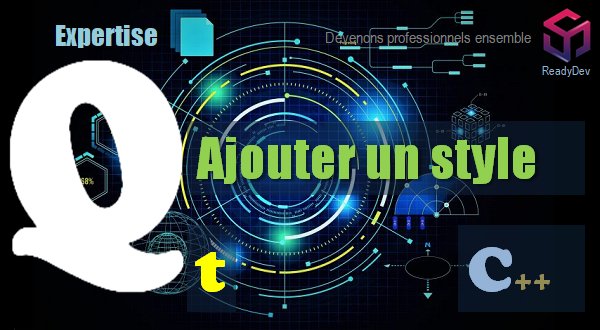
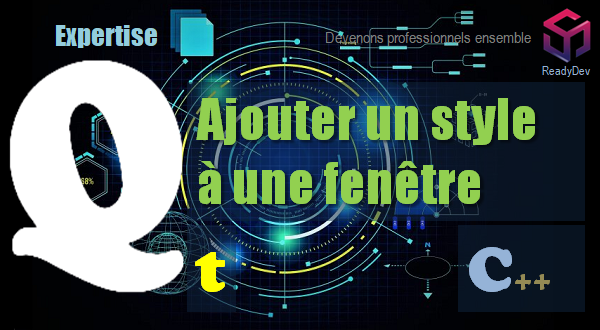
Initial Commit

Changed region(s): [[0.3, 0.2424, 0.99, 0.6667]]

diff --git a/Tutoriels/Cpp/Qt/Window/page/main.php b/Tutoriels/Cpp/Qt/Window/page/main.php
@@ -1,39 +1,5 @@
-<div class="Parallax GParallax1"><div class="Img Binary"><div class="Caption"><a href="#"><div class="Text">Créer une fenêtre personnalisée Qt en C++</div></a></div></div><div class="Body2 Orange">Le but de ce tutoriel est de vous apprendre à créer une fenêtre personnalisée <b>Qt </b>en <b>C++</b>.<br>Version Pro &amp; Industrielle. Produit par <b>Gérard KESSE</b>.<br><br><div class="Content0 GSummary1"><div class="Body0" id="Loader_1529412976174"><div class="Row26">Summary 1</div></div><script>loadSummary1("Loader_1529412976174");</script></div></div></div><br><div class="Content2 GTitle1"><div class="MainBlock2"><div class="Content"><h1 class="Title2 Center" id="Introduction"><a class="Link3" href="#">Introduction</a></h1><div class="Body3"><b>Qt </b>est une API orientée objet et développée en C++. Qt offre des composants d'interface graphique (widgets), d'accès aux données, de connexions réseaux, de gestion des fils d'exécution, d'analyse XML. Elle peut être utiliser pour concevoir l'architecture de son application en utilisant les mécanismes des signaux et slots.Qt prend en charge le système graphique X Window System. Qt intègre des bindings avec plusieurs de langages.<br><br><div class="Img3 GImage"><img src="/Tutoriels/Cpp/img/b_qt_window.png" alt="/Tutoriels/Cpp/img/b_qt_window.png"></div><br></div></div></div></div><br><div class="Content2 GTitle1"><div class="MainBlock2"><div class="Content"><h1 class="Title2 Center" id="Créer une fenêtre personnalisée Qt en C++"><a class="Link3" href="#">Créer une fenêtre personnalisée Qt en C++</a></h1><div class="Body3"><br><div class="Content0 GSummary2"><div class="Body0" id="Loader_1599250744051"><div class="Row26">Summary 2</div></div><script>loadSummary2("Loader_1599250744051");</script></div><br><h2 class="Title7 GTitle2" id="Créer une fenêtre personnalisée Qt en C++-Introduction"><a class="Link9" href="#Créer une fenêtre personnalisée Qt en C++">Introduction</a></h2><br>Dans l'exemple qui suit, nous essayons de créer une fenêtre personnalisée (GWindow) qui affiche un message à l'écran (Bonjour tout le monde).<br><br><h2 class="Title7 GTitle2" id="Créer une fenêtre personnalisée Qt en C++-Programme principal"><a class="Link9" href="#Créer une fenêtre personnalisée Qt en C++">Programme principal</a></h2><br>Pour la définition du programme principal. La fenêtre personnalisée (GWindow) est crée et affichée.<br><br><h3 class="Title8 GTitle3">main.cpp</h3><br><div class="GCode1"><pre class="Code2"><xmp class="AceCode" data-mode="c_cpp">//===============================================
-#include "GWindow.h"
-//===============================================
-int main(int argc, char** argv) {
-    QApplication app(argc, argv);
-    GWindow* lWindow = new GWindow;
-    lWindow-&gt;show();
-    return app.exec();
-}
-//===============================================</xmp></pre></div><br><h2 class="Title7 GTitle2" id="Créer une fenêtre personnalisée Qt en C++-Fénêtre personnalisée"><a class="Link9" href="#Créer une fenêtre personnalisée Qt en C++">Fénêtre personnalisée</a></h2><br>Pour la définition de la fenêtre personnalisée. La fenêtre personnalisée (GWindow) dérive d'un objet (QFrame). Le message (Bonjour tout le monde) est affché dans un label (QLabel). La structure (sGQt) fournit les informations sur la fenêtre (GWindow), notament, son titre (title), et ses dimensions, largeur (width) et hauetur (height). <br><br><h3 class="Title8 GTitle3">GWindow.cpp</h3><br><div class="GCode1"><pre class="Code2"><xmp class="AceCode" data-mode="c_cpp">//===============================================
-GWindow::GWindow(QWidget* parent) : QFrame(parent) {
-    sGQt* lQt = GManager::Instance()-&gt;dataGet()-&gt;qt;
-        
-    QLabel* lLabel = new QLabel;    
-    lLabel-&gt;setText("Bonjour tout le monde\n");
-    
-    QVBoxLayout* lLayout = new QVBoxLayout;    
-    lLayout-&gt;addWidget(lLabel);
-    lLayout-&gt;setAlignment(Qt::AlignCenter);
-    
-    setLayout(lLayout);
-    setWindowTitle(lQt-&gt;title);
-    resize(lQt-&gt;width, lQt-&gt;height);
-}
-//===============================================</xmp></pre></div><br>Pour la définition des données.<br><br><h3 class="Title8 GTitle3">GManager.cpp</h3><br><div class="GCode1"><pre class="Code2"><xmp class="AceCode" data-mode="c_cpp">m_mgr-&gt;qt-&gt;title = "ReadyApp";
-m_mgr-&gt;qt-&gt;width = 640;
-m_mgr-&gt;qt-&gt;height = 480;</xmp></pre></div><br><h2 class="Title7 GTitle2" id="Créer une fenêtre personnalisée Qt en C++-Résultat"><a class="Link9" href="#Créer une fenêtre personnalisée Qt en C++">Résultat</a></h2><br><div class="Img3 GImage"><img src="/Tutoriels/Cpp/img/i_qt_window.png" alt="/Tutoriels/Cpp/img/i_qt_window.png"></div><br></div></div></div></div><br><div class="Content2 GTitle1"><div class="MainBlock2"><div class="Content"><h1 class="Title2 Center" id="Codes sources"><a class="Link3" href="#">Codes sources</a></h1><div class="Body3"><br><i>ReadyDev met à votre disposition l'ensemble des codes sources publiés sur ce site.<br>Publiés sous licence libre (GNU General Public License v3.0).</i><br><br><div class="Content0 GSummary2"><div class="Body0" id="Loader_1601112201236"><div class="Row26">Summary 2</div></div><script>loadSummary2("Loader_1601112201236");</script></div><br><h2 class="Title7 GTitle2" id="Codes sources-main.cpp"><a class="Link9" href="#Codes sources">main.cpp</a></h2><br><div class="GCode1"><pre class="Code2"><xmp class="AceCode" data-mode="c_cpp">//===============================================
-#include "GWindow.h"
-//===============================================
-int main(int argc, char** argv) {
-    QApplication app(argc, argv);
-    GWindow* lWindow = new GWindow;
-    lWindow-&gt;show();
-    return app.exec();
-}
-//===============================================</xmp></pre></div><br><h2 class="Title7 GTitle2" id="Codes sources-GWinow.h"><a class="Link9" href="#Codes sources">GWinow.h</a></h2><br><div class="GCode1"><pre class="Code2"><xmp class="AceCode" data-mode="c_cpp">//===============================================
+<div class="Parallax GParallax1"><div class="Img Binary"><div class="Caption"><a href="#"><div class="Text">Créer une fenêtre personnalisée Qt en C++</div></a></div></div><div class="Body2 Orange">Le but de ce tutoriel est de vous apprendre à créer une fenêtre personnalisée <b>Qt </b>en <b>C++</b>.<br>Version Pro &amp; Industrielle. Produit par <b>Gérard KESSE</b>.<br><br><div class="Content0 GSummary1"><div class="Body0" id="Loader_1529412976174"><div class="Row26">Summary 1</div></div><script>loadSummary1("Loader_1529412976174");</script></div></div></div><br><div class="Content2 GTitle1"><div class="MainBlock2"><div class="Content"><h1 class="Title2 Center" id="Introduction"><a class="Link3" href="#">Introduction</a></h1><div class="Body3"><b>Qt </b>est une API orientée objet et développée en C++. Qt offre des composants d'interface graphique (widgets), d'accès aux données, de connexions réseaux, de gestion des fils d'exécution, d'analyse XML. Elle utilse le mécanisme des signaux et slots.Qt prend en charge le système graphique X Window System et intègre des bindings avec plusieurs langages.<br><br><div class="Img3 GImage"><img src="/Tutoriels/Cpp/img/b_qt_window.png" alt="/Tutoriels/Cpp/img/b_qt_window.png"></div><br></div></div></div></div><br><div class="Content2 GTitle1"><div class="MainBlock2"><div class="Content"><h1 class="Title2 Center" id="Créer une fenêtre personnalisée Qt en C++"><a class="Link3" href="#">Créer une fenêtre personnalisée Qt en C++</a></h1><div class="Body3"><br><div class="Content0 GSummary2"><div class="Body0" id="Loader_1599250744051"><div class="Row26">Summary 2</div></div><script>loadSummary2("Loader_1599250744051");</script></div><br><h2 class="Title7 GTitle2" id="Créer une fenêtre personnalisée Qt en C++-Introduction"><a class="Link9" href="#Créer une fenêtre personnalisée Qt en C++">Introduction</a></h2><br>Dans l'exemple qui suit, nous essayons de créer une fenêtre personnalisée (GWindow).<br><br><h2 class="Title7 GTitle2" id="Créer une fenêtre personnalisée Qt en C++-Programme principal"><a class="Link9" href="#Créer une fenêtre personnalisée Qt en C++">Programme principal</a></h2><br><h3 class="Title8 GTitle3">main.cpp</h3><br><div class="GCode1"><pre class="Code2"><xmp class="AceCode" data-mode="batchfile">GWindow* lWindow = new GWindow;
+lWindow-&gt;show();</xmp></pre></div><br><h2 class="Title7 GTitle2" id="Créer une fenêtre personnalisée Qt en C++-Fichier header"><a class="Link9" href="#Créer une fenêtre personnalisée Qt en C++">Fichier header</a></h2><br><h3 class="Title8 GTitle3">GWindow.h</h3><br><div class="GCode1"><pre class="Code2"><xmp class="AceCode" data-mode="c_cpp">//===============================================
 #ifndef _GWindow_
 #define _GWindow_
 //===============================================
@@ -45,29 +11,18 @@ class GWindow : public QFrame {
 public:
     GWindow(QWidget* parent  = 0);
     ~GWindow();
+
+private:
+    // proprietes
 };
 //===============================================
 #endif
-//===============================================</xmp></pre></div><br><h2 class="Title7 GTitle2" id="Codes sources-GWindow.cpp"><a class="Link9" href="#Codes sources">GWindow.cpp</a></h2><br><div class="GCode1"><pre class="Code2"><xmp class="AceCode" data-mode="c_cpp">//===============================================
-#include "GWindow.h"
-#include "GManager.h"
-//===============================================
+//===============================================</xmp></pre></div><br><h2 class="Title7 GTitle2" id="Créer une fenêtre personnalisée Qt en C++-Constructeur de la fenêtre"><a class="Link9" href="#Créer une fenêtre personnalisée Qt en C++">Constructeur de la fenêtre</a></h2><br><h3 class="Title8 GTitle3">GWindow.cpp</h3><br><div class="GCode1"><pre class="Code2"><xmp class="AceCode" data-mode="c_cpp">//===============================================
 GWindow::GWindow(QWidget* parent) : QFrame(parent) {
-    sGQt* lQt = GManager::Instance()-&gt;dataGet()-&gt;qt;
-        
-    QLabel* lLabel = new QLabel;    
-    lLabel-&gt;setText("Bonjour tout le monde\n");
-    
-    QVBoxLayout* lLayout = new QVBoxLayout;    
-    lLayout-&gt;addWidget(lLabel);
-    lLayout-&gt;setAlignment(Qt::AlignCenter);
-    
-    setLayout(lLayout);
+    // code du constructeur de la fenetre
+    setLayout(m_mainLayout);
     setWindowTitle(lQt-&gt;title);
+    setWindowIcon(QIcon(lTitleBar-&gt;icon_file));
     resize(lQt-&gt;width, lQt-&gt;height);
-}
-//===============================================
-GWindow::~GWindow() {
-    
 }
 //===============================================</xmp></pre></div><br></div></div></div></div><br><div class="Content2 GTitle1"><div class="MainBlock2"><div class="Content"><h1 class="Title2 Center" id="Voir Aussi"><a class="Link3" href="#">Voir Aussi</a></h1><div class="Body3">Dans cette même catégorie, vous pouvez consulter aussi :<br><br><span class="GColor1" style="color:lime;">Interface Homme-Machine Qt</span><br><br><div class="Content0 GList1"><div class="Body0" id="Loader_1601151341115"><div class="Row26">List 1 &gt; Cpp &gt; qt</div></div><script>loadList1("Loader_1601151341115","Cpp","qt");</script></div><br></div></div></div></div><br>

diff --git a/Tutoriels/Cpp/Qt/Project/page/main.php b/Tutoriels/Cpp/Qt/Project/page/main.php
@@ -1,4 +1,4 @@
-<div class="Parallax GParallax1"><div class="Img Binary"><div class="Caption"><a href="#"><div class="Text">Créer un projet Qt en C++</div></a></div></div><div class="Body2 Orange">Le but de ce tutoriel est de vous apprendre à créer un projet <b>Qt </b>en <b>C++</b>.<br>Version Pro &amp; Industrielle. Produit par <b>Gérard KESSE</b>.<br><br><div class="Content0 GSummary1"><div class="Body0" id="Loader_1529412976174"><div class="Row26">Summary 1</div></div><script>loadSummary1("Loader_1529412976174");</script></div></div></div><br><div class="Content2 GTitle1"><div class="MainBlock2"><div class="Content"><h1 class="Title2 Center" id="Introduction"><a class="Link3" href="#">Introduction</a></h1><div class="Body3"><b>Qt </b>est une API orientée objet et développée en C++. Qt offre des composants d'interface graphique (widgets), d'accès aux données, de connexions réseaux, de gestion des fils d'exécution, d'analyse XML. Elle peut être utiliser pour concevoir l'architecture de son application en utilisant les mécanismes des signaux et slots.Qt prend en charge le système graphique X Window System. Qt intègre des bindings avec plusieurs de langages.<br><br><div class="Img3 GImage"><img src="/Tutoriels/Cpp/img/b_qt_project.png" alt="/Tutoriels/Cpp/img/b_qt_project.png"></div><br></div></div></div></div><br><div class="Content2 GTitle1"><div class="MainBlock2"><div class="Content"><h1 class="Title2 Center" id="Créer un projet Qt en C++"><a class="Link3" href="#">Créer un projet Qt en C++</a></h1><div class="Body3"><br><div class="Content0 GSummary2"><div class="Body0" id="Loader_1599250744051"><div class="Row26">Summary 2</div></div><script>loadSummary2("Loader_1599250744051");</script></div><br><h2 class="Title7 GTitle2" id="Créer un projet Qt en C++-Introduction"><a class="Link9" href="#Créer un projet Qt en C++">Introduction</a></h2><br>Dans l'exemple qui suit, nous essayons de créer un projet qui affiche un message à l'écran (Bonjour tout le monde).<br><br><h2 class="Title7 GTitle2" id="Créer un projet Qt en C++-Programme principal"><a class="Link9" href="#Créer un projet Qt en C++">Programme principal</a></h2><br>Pour la définition du programme principal. Le message (Bonjour tout le monde) est affiché dans un label (QLabel). La fenêtre (QWidget) a pour dimension (640 x 480) et pour titre (ReadyApp).<br><br><h3 class="Title8 GTitle3">main.cpp</h3><br><div class="GCode1"><pre class="Code2"><xmp class="AceCode" data-mode="c_cpp">//===============================================
+<div class="Parallax GParallax1"><div class="Img Binary"><div class="Caption"><a href="#"><div class="Text">Créer un projet Qt en C++</div></a></div></div><div class="Body2 Orange">Le but de ce tutoriel est de vous apprendre à créer un projet <b>Qt </b>en <b>C++</b>.<br>Version Pro &amp; Industrielle. Produit par <b>Gérard KESSE</b>.<br><br><div class="Content0 GSummary1"><div class="Body0" id="Loader_1529412976174"><div class="Row26">Summary 1</div></div><script>loadSummary1("Loader_1529412976174");</script></div></div></div><br><div class="Content2 GTitle1"><div class="MainBlock2"><div class="Content"><h1 class="Title2 Center" id="Introduction"><a class="Link3" href="#">Introduction</a></h1><div class="Body3"><b>Qt </b>est une API orientée objet et développée en C++. Qt offre des composants d'interface graphique (widgets), d'accès aux données, de connexions réseaux, de gestion des fils d'exécution, d'analyse XML. Elle utilse le mécanisme des signaux et slots.Qt prend en charge le système graphique X Window System et intègre des bindings avec plusieurs langages.<br><br><div class="Img3 GImage"><img src="/Tutoriels/Cpp/img/b_qt_project.png" alt="/Tutoriels/Cpp/img/b_qt_project.png"></div><br></div></div></div></div><br><div class="Content2 GTitle1"><div class="MainBlock2"><div class="Content"><h1 class="Title2 Center" id="Créer un projet Qt en C++"><a class="Link3" href="#">Créer un projet Qt en C++</a></h1><div class="Body3"><br><div class="Content0 GSummary2"><div class="Body0" id="Loader_1599250744051"><div class="Row26">Summary 2</div></div><script>loadSummary2("Loader_1599250744051");</script></div><br><h2 class="Title7 GTitle2" id="Créer un projet Qt en C++-Introduction"><a class="Link9" href="#Créer un projet Qt en C++">Introduction</a></h2><br>Dans l'exemple qui suit, nous essayons de créer un projet qui affiche un message à l'écran (Bonjour tout le monde).<br><br><h2 class="Title7 GTitle2" id="Créer un projet Qt en C++-Programme principal"><a class="Link9" href="#Créer un projet Qt en C++">Programme principal</a></h2><br><h3 class="Title8 GTitle3">main.cpp</h3><br><div class="GCode1"><pre class="Code2"><xmp class="AceCode" data-mode="c_cpp">//===============================================
 #include &lt;QtWidgets&gt;
 //===============================================
 int main(int argc, char** argv) {
@@ -15,7 +15,7 @@ int main(int argc, char** argv) {
     lWindow-&gt;show();
     return app.exec();
 }
-//===============================================</xmp></pre></div><br><h2 class="Title7 GTitle2" id="Créer un projet Qt en C++-Fichier projet"><a class="Link9" href="#Créer un projet Qt en C++">Fichier projet</a></h2><br>Pour la définition du fichier projet. On décide de créer une application (app). Le fichier exécutable est nommé (gp_qt) et il est généré dans le répertoire (bin). Les fichiers objet (*.o) et tous les fichiers intermédiaires associés aux ressources (*.qrc), aux interfaces utilisateur (*.ui) et à la déclaration des signaux/slots (Q_OBJECT) sont générés dans le répertoire (build).<br><br><h3 class="Title8 GTitle3">GProject.pro</h3><br><div class="GCode1"><pre class="Code2"><xmp class="AceCode" data-mode="prolog">TEMPLATE = app
+//===============================================</xmp></pre></div><br><h2 class="Title7 GTitle2" id="Créer un projet Qt en C++-Fichier projet"><a class="Link9" href="#Créer un projet Qt en C++">Fichier projet</a></h2><br><h3 class="Title8 GTitle3">GProject.pro</h3><br><div class="GCode1"><pre class="Code2"><xmp class="AceCode" data-mode="prolog">TEMPLATE = app
 TARGET = gp_qt
 DESTDIR = bin
 OBJECTS_DIR = build
@@ -27,12 +27,14 @@ QT += widgets
 RESOURCES += resources.qrc
 
 SOURCES +=\
-    $$PWD/src/main.cpp \</xmp></pre></div><br><h2 class="Title7 GTitle2" id="Créer un projet Qt en C++-Compilation"><a class="Link9" href="#Créer un projet Qt en C++">Compilation</a></h2><br>Pour la compilation du projet. On positionne les variables d'environnement (PATH) associées à la bibliothèque (Qt) et à l'utilitaire (MinGW). On traduit le fichier projet en fichier Makefile avec la commande (qmake). On compile le projet avec la commande (mingw32-make). On exécute le projet (bin\qp_qt).<br><br><h3 class="Title8 GTitle3">compile.bat (Windows)<br></h3><br><div class="GCode1"><pre class="Code2"><xmp class="AceCode" data-mode="batchfile">@echo off
+    $$PWD/src/main.cpp \</xmp></pre></div><br><h2 class="Title7 GTitle2" id="Créer un projet Qt en C++-Compilation"><a class="Link9" href="#Créer un projet Qt en C++">Compilation</a></h2><br><h3 class="Title8 GTitle3">compile.bat (Windows - MinGW)<br></h3><br><div class="GCode1"><pre class="Code2"><xmp class="AceCode" data-mode="batchfile">@echo off
 ::===============================================
 set "PATH=C:\Qt\Qt5.8.0\5.8\mingw53_32\bin;%PATH%"
 set "PATH=C:\Qt\Qt5.8.0\Tools\mingw530_32\bin;%PATH%"
 ::===============================================
+set "PATH=bin;%PATH%"
+::===============================================
 qmake
 mingw32-make
-bin\gp_qt
+gp_qt
 ::===============================================</xmp></pre></div><br><h2 class="Title7 GTitle2" id="Créer un projet Qt en C++-Résultat"><a class="Link9" href="#Créer un projet Qt en C++">Résultat</a></h2><br><div class="Img3 GImage"><img src="/Tutoriels/Cpp/img/i_qt_project.png" alt="/Tutoriels/Cpp/img/i_qt_project.png"></div><br></div></div></div></div><br><div class="Content2 GTitle1"><div class="MainBlock2"><div class="Content"><h1 class="Title2 Center" id="Voir Aussi"><a class="Link3" href="#">Voir Aussi</a></h1><div class="Body3">Dans cette même catégorie, vous pouvez consulter aussi :<br><br><span class="GColor1" style="color:lime;">Interface Homme-Machine Qt</span><br><br><div class="Content0 GList1"><div class="Body0" id="Loader_1601109305589"><div class="Row26">List 1 &gt; Cpp &gt; qt</div></div><script>loadList1("Loader_1601109305589","Cpp","qt");</script></div><br></div></div></div></div><br>

diff --git a/Tutoriels/Cpp/Qt/Resource/page/main.php b/Tutoriels/Cpp/Qt/Resource/page/main.php
@@ -1,6 +1,6 @@
-<div class="Parallax GParallax1"><div class="Img Binary"><div class="Caption"><a href="#"><div class="Text">Utiliser une ressource Qt en C++</div></a></div></div><div class="Body2 Orange">Le but de ce tutoriel est de vous apprendre à utiliser une ressource <b>Qt </b>en <b>C++</b>.<br>Version Pro &amp; Industrielle. Produit par <b>Gérard KESSE</b>.<br><br><div class="Content0 GSummary1"><div class="Body0" id="Loader_1529412976174"><div class="Row26">Summary 1</div></div><script>loadSummary1("Loader_1529412976174");</script></div></div></div><br><div class="Content2 GTitle1"><div class="MainBlock2"><div class="Content"><h1 class="Title2 Center" id="Introduction"><a class="Link3" href="#">Introduction</a></h1><div class="Body3"><b>Qt </b>est une API orientée objet et développée en C++. Qt offre des composants d'interface graphique (widgets), d'accès aux données, de connexions réseaux, de gestion des fils d'exécution, d'analyse XML. Elle peut être utiliser pour concevoir l'architecture de son application en utilisant les mécanismes des signaux et slots.Qt prend en charge le système graphique X Window System. Qt intègre des bindings avec plusieurs de langages.<br><br><div class="Img3 GImage"><img src="/Tutoriels/Cpp/img/b_qt_resource.png" alt="/Tutoriels/Cpp/img/b_qt_resource.png"></div><br></div></div></div></div><br><div class="Content2 GTitle1"><div class="MainBlock2"><div class="Content"><h1 class="Title2 Center" id="Utiliser une ressource Qt en C++"><a class="Link3" href="#">Utiliser une ressource Qt en C++</a></h1><div class="Body3"><br><div class="Content0 GSummary2"><div class="Body0" id="Loader_1599250744051"><div class="Row26">Summary 2</div></div><script>loadSummary2("Loader_1599250744051");</script></div><br><h2 class="Title7 GTitle2" id="Utiliser une ressource Qt en C++-Introduction"><a class="Link9" href="#Utiliser une ressource Qt en C++">Introduction</a></h2><br>Dans l'exemple qui suit, nous essayons d'utiliser une ressource définie dans le fichier (resources.qrc).<br><br><h2 class="Title7 GTitle2" id="Utiliser une ressource Qt en C++-Fichier ressource"><a class="Link9" href="#Utiliser une ressource Qt en C++">Fichier ressource</a></h2><br>Pour la définition des ressources. La ressource a pour chemin complet (data/qss/styles.qss) et est associée au préfixe (/qss) avec pour alias (styles.qss). <br><br><h3 class="Title8 GTitle3">resources.qrc</h3><br><div class="GCode1"><pre class="Code2"><xmp class="AceCode" data-mode="xml">&lt;!DOCTYPE RCC&gt;
+<div class="Parallax GParallax1"><div class="Img Binary"><div class="Caption"><a href="#"><div class="Text">Utiliser une ressource Qt en C++</div></a></div></div><div class="Body2 Orange">Le but de ce tutoriel est de vous apprendre à utiliser une ressource <b>Qt </b>en <b>C++</b>.<br>Version Pro &amp; Industrielle. Produit par <b>Gérard KESSE</b>.<br><br><div class="Content0 GSummary1"><div class="Body0" id="Loader_1529412976174"><div class="Row26">Summary 1</div></div><script>loadSummary1("Loader_1529412976174");</script></div></div></div><br><div class="Content2 GTitle1"><div class="MainBlock2"><div class="Content"><h1 class="Title2 Center" id="Introduction"><a class="Link3" href="#">Introduction</a></h1><div class="Body3"><b>Qt </b>est une API orientée objet et développée en C++. Qt offre des composants d'interface graphique (widgets), d'accès aux données, de connexions réseaux, de gestion des fils d'exécution, d'analyse XML. Elle utilse le mécanisme des signaux et slots.Qt prend en charge le système graphique X Window System et intègre des bindings avec plusieurs langages.<br><br><div class="Img3 GImage"><img src="/Tutoriels/Cpp/img/b_qt_resource.png" alt="/Tutoriels/Cpp/img/b_qt_resource.png"></div><br></div></div></div></div><br><div class="Content2 GTitle1"><div class="MainBlock2"><div class="Content"><h1 class="Title2 Center" id="Utiliser une ressource Qt en C++"><a class="Link3" href="#">Utiliser une ressource Qt en C++</a></h1><div class="Body3"><br><div class="Content0 GSummary2"><div class="Body0" id="Loader_1599250744051"><div class="Row26">Summary 2</div></div><script>loadSummary2("Loader_1599250744051");</script></div><br><h2 class="Title7 GTitle2" id="Utiliser une ressource Qt en C++-Introduction"><a class="Link9" href="#Utiliser une ressource Qt en C++">Introduction</a></h2><br>Dans l'exemple qui suit, nous essayons d'utiliser une ressource (resources.qrc).<br><br><h2 class="Title7 GTitle2" id="Utiliser une ressource Qt en C++-Programme principal"><a class="Link9" href="#Utiliser une ressource Qt en C++">Programme principal</a></h2><br><h3 class="Title8 GTitle3">GManager.cpp</h3><br><div class="GCode1"><pre class="Code2"><xmp class="AceCode" data-mode="c_cpp">m_mgr-&gt;qt-&gt;style_file = ":/qss/styles.qss";</xmp></pre></div><br><h2 class="Title7 GTitle2" id="Utiliser une ressource Qt en C++-Fichier ressource"><a class="Link9" href="#Utiliser une ressource Qt en C++">Fichier ressource</a></h2><br><h3 class="Title8 GTitle3">resources.qrc</h3><br><div class="GCode1"><pre class="Code2"><xmp class="AceCode" data-mode="xml">&lt;!DOCTYPE RCC&gt;
 &lt;RCC version="1.0"&gt;
     &lt;qresource prefix="/qss"&gt;
         &lt;file alias="styles.qss"&gt;data/qss/styles.qss&lt;/file&gt;
     &lt;/qresource&gt;
-&lt;/RCC&gt;</xmp></pre></div><br><h2 class="Title7 GTitle2" id="Utiliser une ressource Qt en C++-Accès à la ressource"><a class="Link9" href="#Utiliser une ressource Qt en C++">Accès à la ressource</a></h2><br>Pour l'accès à la ressource. L'accès à la ressource est symbolisé par la clé (:) et est réaslisé à travers son préfixe (/qss) et son alias (styles.qss).<br><br><h3 class="Title8 GTitle3">GManager.cpp</h3><br><div class="GCode1"><pre class="Code2"><xmp class="AceCode" data-mode="c_cpp">m_mgr-&gt;qt-&gt;style_file = ":/qss/styles.qss";</xmp></pre></div><br><h2 class="Title7 GTitle2" id="Utiliser une ressource Qt en C++-Déclaration de la ressource"><a class="Link9" href="#Utiliser une ressource Qt en C++">Déclaration de la ressource</a></h2><br>Pour la déclaration de la ressource. La ressource est défnie dans le fichier (resources.qrc).<br><br><h3 class="Title8 GTitle3">GProject.pro</h3><br><div class="GCode1"><pre class="Code2"><xmp class="AceCode" data-mode="prolog">RESOURCES += resources.qrc</xmp></pre></div><br></div></div></div></div><br><div class="Content2 GTitle1"><div class="MainBlock2"><div class="Content"><h1 class="Title2 Center" id="Voir Aussi"><a class="Link3" href="#">Voir Aussi</a></h1><div class="Body3">Dans cette même catégorie, vous pouvez consulter aussi :<br><br><span class="GColor1" style="color:lime;">Interface Homme-Machine Qt</span><br><br><div class="Content0 GList1"><div class="Body0" id="Loader_1601149057068"><div class="Row26">List 1 &gt; Cpp &gt; qt</div></div><script>loadList1("Loader_1601149057068","Cpp","qt");</script></div><br></div></div></div></div><br>
+&lt;/RCC&gt;</xmp></pre></div><br><h2 class="Title7 GTitle2" id="Utiliser une ressource Qt en C++-Déclaration de la ressource"><a class="Link9" href="#Utiliser une ressource Qt en C++">Déclaration de la ressource</a></h2><br><h3 class="Title8 GTitle3">GProject.pro</h3><br><div class="GCode1"><pre class="Code2"><xmp class="AceCode" data-mode="prolog">RESOURCES += resources.qrc</xmp></pre></div><br></div></div></div></div><br><div class="Content2 GTitle1"><div class="MainBlock2"><div class="Content"><h1 class="Title2 Center" id="Voir Aussi"><a class="Link3" href="#">Voir Aussi</a></h1><div class="Body3">Dans cette même catégorie, vous pouvez consulter aussi :<br><br><span class="GColor1" style="color:lime;">Interface Homme-Machine Qt</span><br><br><div class="Content0 GList1"><div class="Body0" id="Loader_1601149057068"><div class="Row26">List 1 &gt; Cpp &gt; qt</div></div><script>loadList1("Loader_1601149057068","Cpp","qt");</script></div><br></div></div></div></div><br>

diff --git a/Tutoriels/Cpp/Qt/Style/page/main.php b/Tutoriels/Cpp/Qt/Style/page/main.php
@@ -1,22 +1,11 @@
-<div class="Parallax GParallax1"><div class="Img Binary"><div class="Caption"><a href="#"><div class="Text">Ajouter un style Qt en C++</div></a></div></div><div class="Body2 Orange">Le but de ce tutoriel est de vous apprendre à ajouter un style <b>Qt </b>en <b>C++</b>.<br>Version Pro &amp; Industrielle. Produit par <b>Gérard KESSE</b>.<br><br><div class="Content0 GSummary1"><div class="Body0" id="Loader_1529412976174"><div class="Row26">Summary 1</div></div><script>loadSummary1("Loader_1529412976174");</script></div></div></div><br><div class="Content2 GTitle1"><div class="MainBlock2"><div class="Content"><h1 class="Title2 Center" id="Introduction"><a class="Link3" href="#">Introduction</a></h1><div class="Body3"><b>Qt </b>est une API orientée objet et développée en C++. Qt offre des composants d'interface graphique (widgets), d'accès aux données, de connexions réseaux, de gestion des fils d'exécution, d'analyse XML. Elle peut être utiliser pour concevoir l'architecture de son application en utilisant les mécanismes des signaux et slots.Qt prend en charge le système graphique X Window System. Qt intègre des bindings avec plusieurs de langages.<br><br><div class="Img3 GImage"><img src="/Tutoriels/Cpp/img/b_qt_style.png" alt="/Tutoriels/Cpp/img/b_qt_style.png"></div><br></div></div></div></div><br><div class="Content2 GTitle1"><div class="MainBlock2"><div class="Content"><h1 class="Title2 Center" id="Ajouter un style Qt en C++"><a class="Link3" href="#">Ajouter un style Qt en C++</a></h1><div class="Body3"><br><div class="Content0 GSummary2"><div class="Body0" id="Loader_1599250744051"><div class="Row26">Summary 2</div></div><script>loadSummary2("Loader_1599250744051");</script></div><br><h2 class="Title7 GTitle2" id="Ajouter un style Qt en C++-Introduction"><a class="Link9" href="#Ajouter un style Qt en C++">Introduction</a></h2><br>Dans l'exemple qui suit, nous essayons d'ajouter un style défini dans le fichier (styles.qss) à un projet qui affiche un message à l'écran (Bonjour tout le monde).<br><br><h2 class="Title7 GTitle2" id="Ajouter un style Qt en C++-Programme principal"><a class="Link9" href="#Ajouter un style Qt en C++">Programme principal</a></h2><br>Pour la définition du programme principal. Le chargement du style est effectué par la méthode (styleLoad) du manager (GManager).<br><br><h3 class="Title8 GTitle3">main.cpp</h3><br><div class="GCode1"><pre class="Code2"><xmp class="AceCode" data-mode="c_cpp">//===============================================
-#include "GWindow.h"
-#include "GManager.h"
-//===============================================
-int main(int argc, char** argv) {
-    QApplication app(argc, argv);
-    GManager::Instance()-&gt;styleLoad();
-    GWindow* lWindow = new GWindow;
-    lWindow-&gt;show();
-    return app.exec();
-}
-//===============================================</xmp></pre></div><br><h2 class="Title7 GTitle2" id="Ajouter un style Qt en C++-Chargement du style"><a class="Link9" href="#Ajouter un style Qt en C++">Chargement du style</a></h2><br>Pour la définition du chargement du style. Le chemin du fichier de style est défini par la propriété (style_file) de la structure de données associée au module (qt). Le style est appliqué à toutes les composantes de l'application (qApp).<br><br><h3 class="Title8 GTitle3">GManager.cpp</h3><br><div class="GCode1"><pre class="Code2"><xmp class="AceCode" data-mode="c_cpp">//===============================================
+<div class="Parallax GParallax1"><div class="Img Binary"><div class="Caption"><a href="#"><div class="Text">Ajouter un style Qt en C++</div></a></div></div><div class="Body2 Orange">Le but de ce tutoriel est de vous apprendre à ajouter un style <b>Qt </b>en <b>C++</b>.<br>Version Pro &amp; Industrielle. Produit par <b>Gérard KESSE</b>.<br><br><div class="Content0 GSummary1"><div class="Body0" id="Loader_1529412976174"><div class="Row26">Summary 1</div></div><script>loadSummary1("Loader_1529412976174");</script></div></div></div><br><div class="Content2 GTitle1"><div class="MainBlock2"><div class="Content"><h1 class="Title2 Center" id="Introduction"><a class="Link3" href="#">Introduction</a></h1><div class="Body3"><b>Qt </b>est une API orientée objet et développée en C++. Qt offre des composants d'interface graphique (widgets), d'accès aux données, de connexions réseaux, de gestion des fils d'exécution, d'analyse XML. Elle utilse le mécanisme des signaux et slots.Qt prend en charge le système graphique X Window System et intègre des bindings avec plusieurs langages.<br><br><div class="Img3 GImage"><img src="/Tutoriels/Cpp/img/b_qt_style.png" alt="/Tutoriels/Cpp/img/b_qt_style.png"></div><br></div></div></div></div><br><div class="Content2 GTitle1"><div class="MainBlock2"><div class="Content"><h1 class="Title2 Center" id="Ajouter un style Qt en C++"><a class="Link3" href="#">Ajouter un style Qt en C++</a></h1><div class="Body3"><br><div class="Content0 GSummary2"><div class="Body0" id="Loader_1599250744051"><div class="Row26">Summary 2</div></div><script>loadSummary2("Loader_1599250744051");</script></div><br><h2 class="Title7 GTitle2" id="Ajouter un style Qt en C++-Introduction"><a class="Link9" href="#Ajouter un style Qt en C++">Introduction</a></h2><br>Dans l'exemple qui suit, nous essayons d'ajouter un style (styles.qss) à une fenêtre.<br><br><h2 class="Title7 GTitle2" id="Ajouter un style Qt en C++-Programme principal"><a class="Link9" href="#Ajouter un style Qt en C++">Programme principal</a></h2><br><h3 class="Title8 GTitle3">main.cpp</h3><br><div class="GCode1"><pre class="Code2"><xmp class="AceCode" data-mode="c_cpp">GManager::Instance()-&gt;styleLoad();</xmp></pre></div><br><h3 class="Title8 GTitle3">GManager.cpp</h3><br><div class="GCode1"><pre class="Code2"><xmp class="AceCode" data-mode="c_cpp">m_mgr-&gt;qt-&gt;style_file = ":/qss/styles.qss";</xmp></pre></div><br><h2 class="Title7 GTitle2" id="Ajouter un style Qt en C++-Chargement du style"><a class="Link9" href="#Ajouter un style Qt en C++">Chargement du style</a></h2><br><h3 class="Title8 GTitle3">GManager.cpp</h3><br><div class="GCode1"><pre class="Code2"><xmp class="AceCode" data-mode="c_cpp">//===============================================
 void GManager::styleLoad() {
     QFile lFile(m_mgr-&gt;qt-&gt;style_file);
     lFile.open(QFile::ReadOnly);
     QString lStyleSheet = QLatin1String(lFile.readAll());
     qApp-&gt;setStyleSheet(lStyleSheet);
 }
-//===============================================</xmp></pre></div><br>Pour la définition des données.<br><br><h3 class="Title8 GTitle3">GManager.cpp</h3><br><div class="GCode1"><pre class="Code2"><xmp class="AceCode" data-mode="c_cpp">m_mgr-&gt;qt-&gt;style_file = ":/qss/styles.qss";</xmp></pre></div><br><h2 class="Title7 GTitle2" id="Ajouter un style Qt en C++-Définition du style"><a class="Link9" href="#Ajouter un style Qt en C++">Définition du style</a></h2><br>Pour la définition du style. Le style global appliqué à tous les objets de l'application est défini par la clé (QWidget). Le style restreint appliqué à tous les labels de l'application est défini par la clé (QLabel).<br><br><h3 class="Title8 GTitle3">styles.qss</h3><br><div class="GCode1"><pre class="Code2"><xmp class="AceCode" data-mode="css">/*===============================================*/
+//===============================================</xmp></pre></div><br><h2 class="Title7 GTitle2" id="Ajouter un style Qt en C++-Définition du style"><a class="Link9" href="#Ajouter un style Qt en C++">Définition du style</a></h2><br><h3 class="Title8 GTitle3">styles.qss</h3><br><div class="GCode1"><pre class="Code2"><xmp class="AceCode" data-mode="css">/*===============================================*/
 /* QWidget */
 QWidget {
     background-color: transparent;

diff --git a/Tutoriels/Cpp/Qt/Style/index.php b/Tutoriels/Cpp/Qt/Style/index.php
@@ -3,7 +3,7 @@
     
     $m_data = GJson::Instance()->getData("data/json/Cpp_Qt_Style.json");
     
-    GConfig::Instance()->setData("title", "C++ - Qt - Ajouter un style");
+    GConfig::Instance()->setData("title", "C++ - Qt - Ajouter un style à une fenêtre");
     GConfig::Instance()->setData("menu", "Tutoriels");
     GConfig::Instance()->setData("view", "Cpp_Qt_Style");
     GConfig::Instance()->setData("link", $m_data["links"]);
